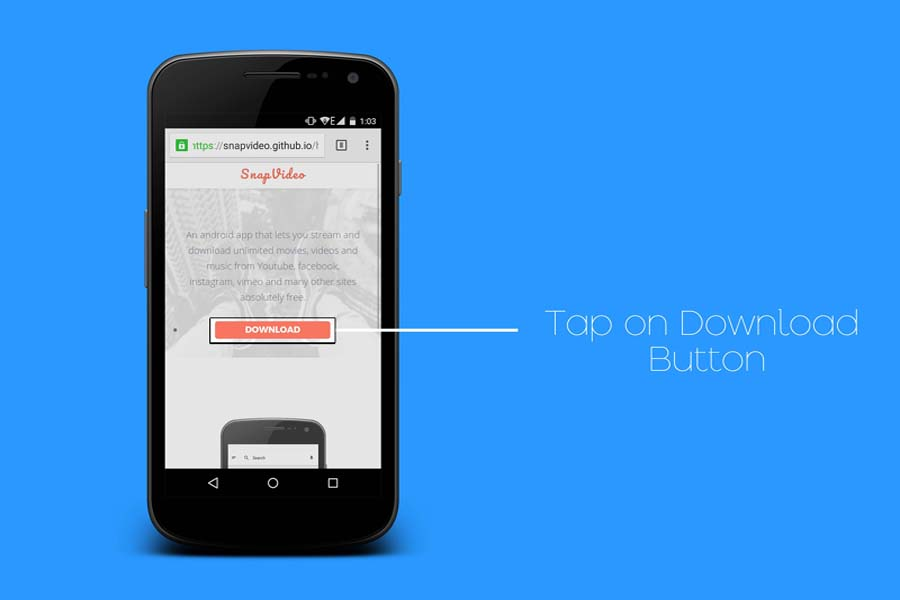
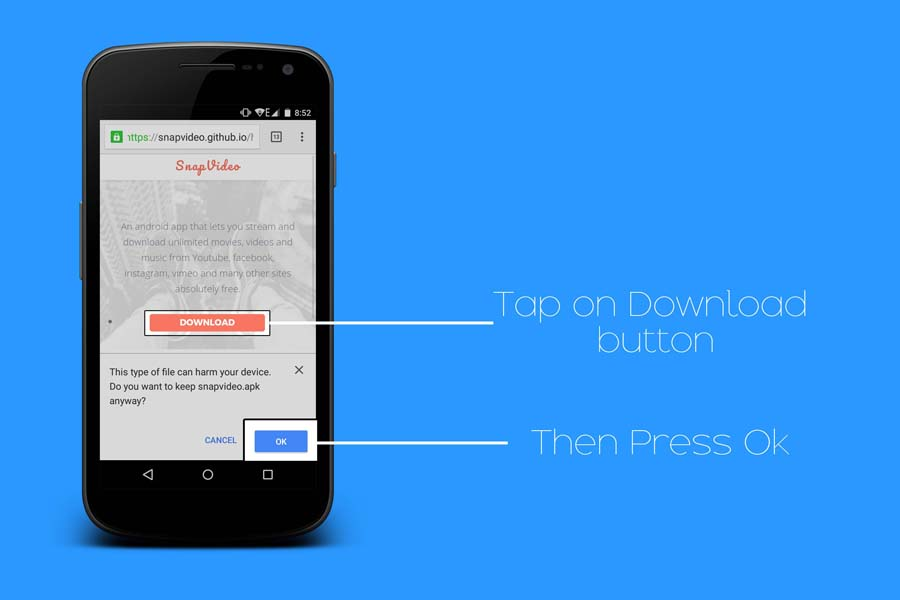
changes

Changed region(s): [[0.0622, 0.06, 0.9644, 0.93], [0.5911, 0.69, 0.8711, 0.78]]

diff --git a/download/index.html b/download/index.html
@@ -86,6 +86,19 @@
 </span>
 </div>
 
+<div class="downstep">
+<span>
+ <img src="images/step2.jpg"  />
+</span>
+<span>
+<figure>
+<figcaption><h2>Step 2</h2>
+<span>Watch the download in the notifications panel. Once the download is complete tap on the completed notification to install .</p>
+</span></figcaption>
+</figure>
+</span>
+</div>
+
 
 
 
